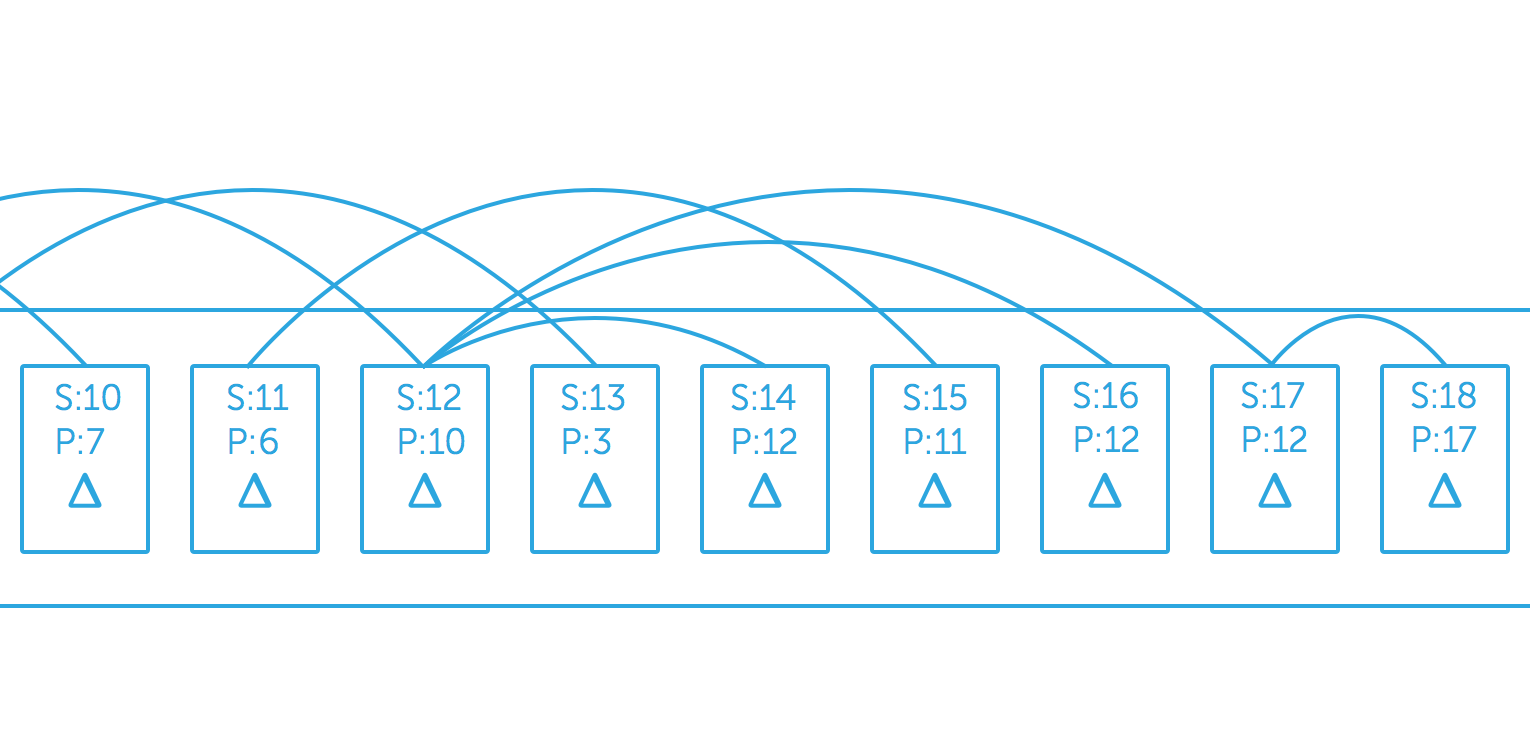
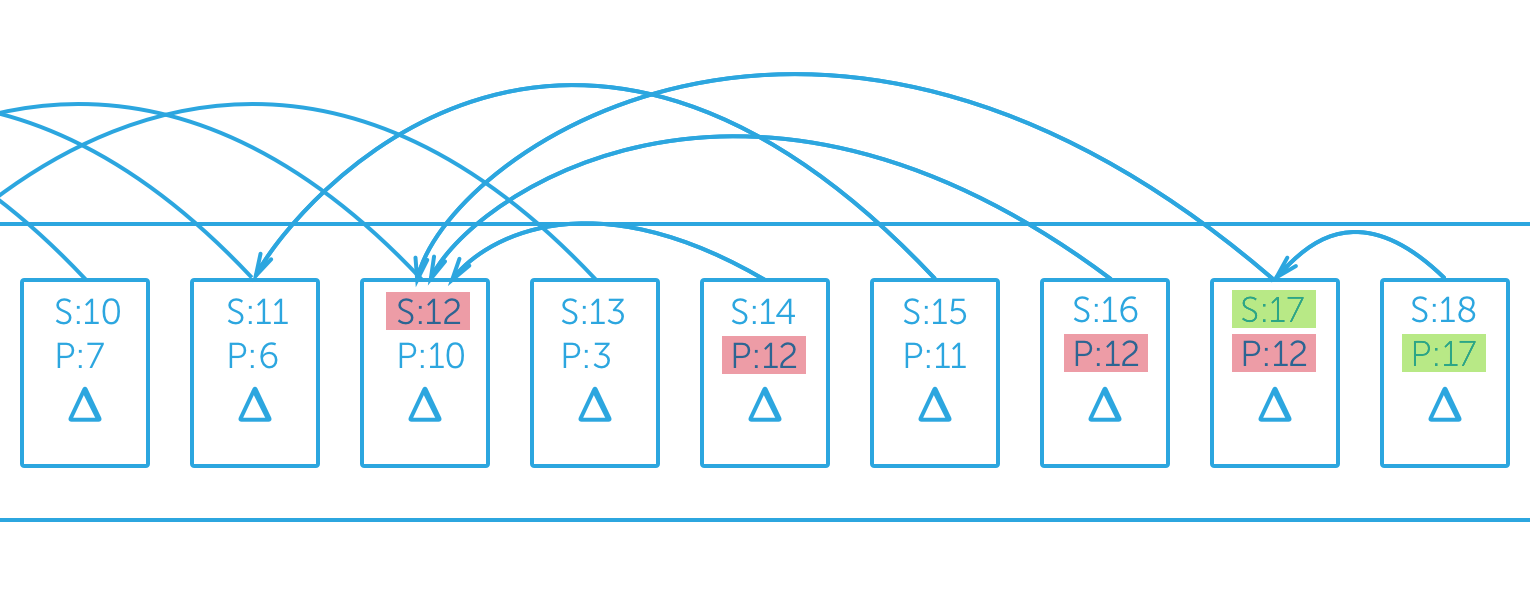
Added a few more points to the version vector chapter.

diff --git a/stream-based-sync.md b/stream-based-sync.md
@@ -1671,13 +1671,20 @@ with an additional `clientId`, a value that'd be unique across the clients.
 That would allow us to cluster events published by a distinct client together,
 even when events are interleaved with the same `precedingSeq` and `clientSeq`.
 
-With causality tracking our `Sync.Events` can finally be reconciled in the
+With causality tracking, our `Sync.Events` can finally be reconciled in the
 exact order as they were generated -- or what we like to call _"causal order"_.
 That's true even if the events on stream are written completely out-of-order.
+Since this allows us to publish the `Sync.Events` on the stream in an unordered
+fashion, there is no more need for sequential batched writes to our database,
+meaning that we comply with the _"fast-writes"_ requirement that we
+mentioned in the **chapter 3.1**.
+
 The other benefit of the casual order is also that it minimize the conflicts
 that can occur in concurrent systems, since the order will assure outdated
 events (queued and published later) are applied onto the `Todo.List` model
 after the events the client saw when it generated.
+
+![fig.32 - Outdated Events](./images/fig-32-outdated-events.png "fig. 32 - Outdated Events")
 
 Due to the new ordering regime, we need to fix a few parts of our code. The
 code that reduces the edit distance:
@@ -1702,14 +1709,22 @@ public struct Todo {
                 // etc...
 ```
 
+Now, both inbound and outbound processes take the `Sync.Events` in an order
+that makes a little more sense.
+
+![fig.33 - Sorted Events](./images/fig-33-sorted-events.png "fig. 33 - Sorted Events")
+
 The whole inbound and outbound reconciliation process and our data structure
 is essentially what [version vectors](https://en.wikipedia.org/wiki/Version_vector)
-are, we just used different names and terms:
+describe, we just used different names and terms:
 
-* `precedingSeq` pointing to happened-before event's `seq` is **=** vector pointing
-  at a certain version.
-* Reconciliation process that get's our model up to date **=** update rules
+* `Sync.Event.precedingSeq` pointing to happened-before event's `seq` is
+  **==** vector pointing at a certain version of the object.
+* Reconciliation process that gets our model up to date **==** update rules
   replicas use to synchronize their data.
+* The other difference compared to other implementations that use version
+  vectors for causality tracking is that we don't encode the happened-before
+  information as a copy of a previously reconciled state of the object.
 
 ## 6. Advantages
 
